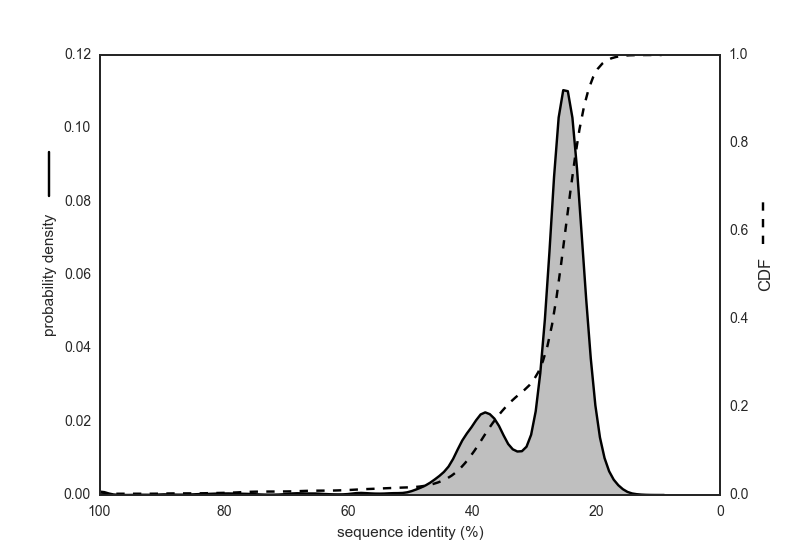
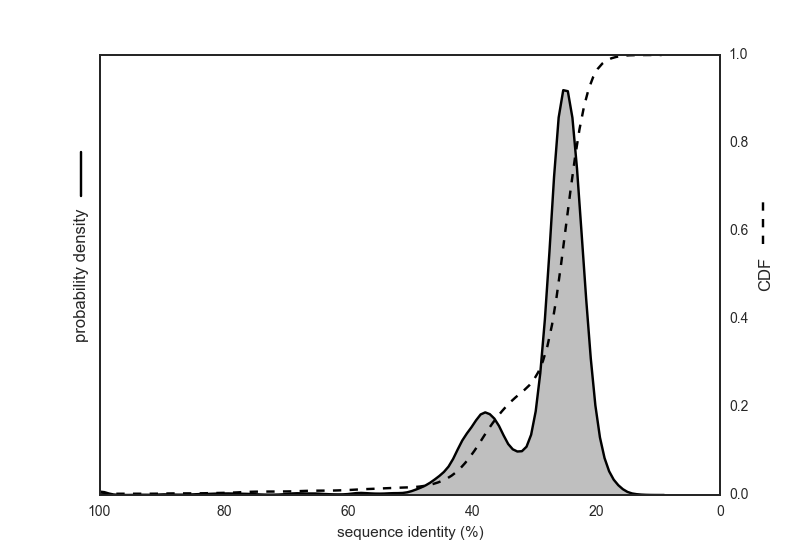
Updated seqid distribution figure

diff --git a/figures/seqid_dist/seqid_dist.py b/figures/seqid_dist/seqid_dist.py
@@ -28,10 +28,11 @@ fig, ax1 = plt.subplots()
 palette = sns.color_palette('deep', 2)
 
 sns.kdeplot(df_has_model.seqid, bw=1., ax=ax1, color='black', shade=True)
-ax1.set_ylabel('probability density')
+# ax1.set_ylabel('probability density')
 ax1.legend_.remove()
 ax1.set_xlabel('sequence identity (%)')
 ax1.set_xlim(100,0)
+plt.setp(ax1, yticks=[])
 
 ax2 = ax1.twinx().twiny()
 sns.kdeplot(100.-df_has_model.seqid[::100], bw=1., cumulative=True, ax=ax2, color='black', linestyle='--')
@@ -41,8 +42,7 @@ ax2.legend_.remove()
 ax2.set_xlim(0,100)
 plt.setp(ax2, xticks=[])
 
-# ax3 = plt.axes([0,0,1,1], axisbg=(1,1,1,0))
-x1  = [-8.2, -8.2]
+x1  = [-3.0, -3.0]
 y1  = [0.68, 0.78]
 line1 = lines.Line2D(x1, y1, color='k')
 line1.set_clip_on(False)
@@ -52,6 +52,7 @@ line2 = lines.Line2D(x2, y2, color='k', linestyle='--')
 line2.set_clip_on(False)
 ax2.add_line(line1)
 ax2.add_line(line2)
+ax2.text(-3., 0.5, 'probability density', rotation='vertical', ha='center', va='center')
 ax2.text(107.5, 0.5, 'CDF', rotation='vertical', ha='center', va='center')
 
 # plt.tight_layout()
